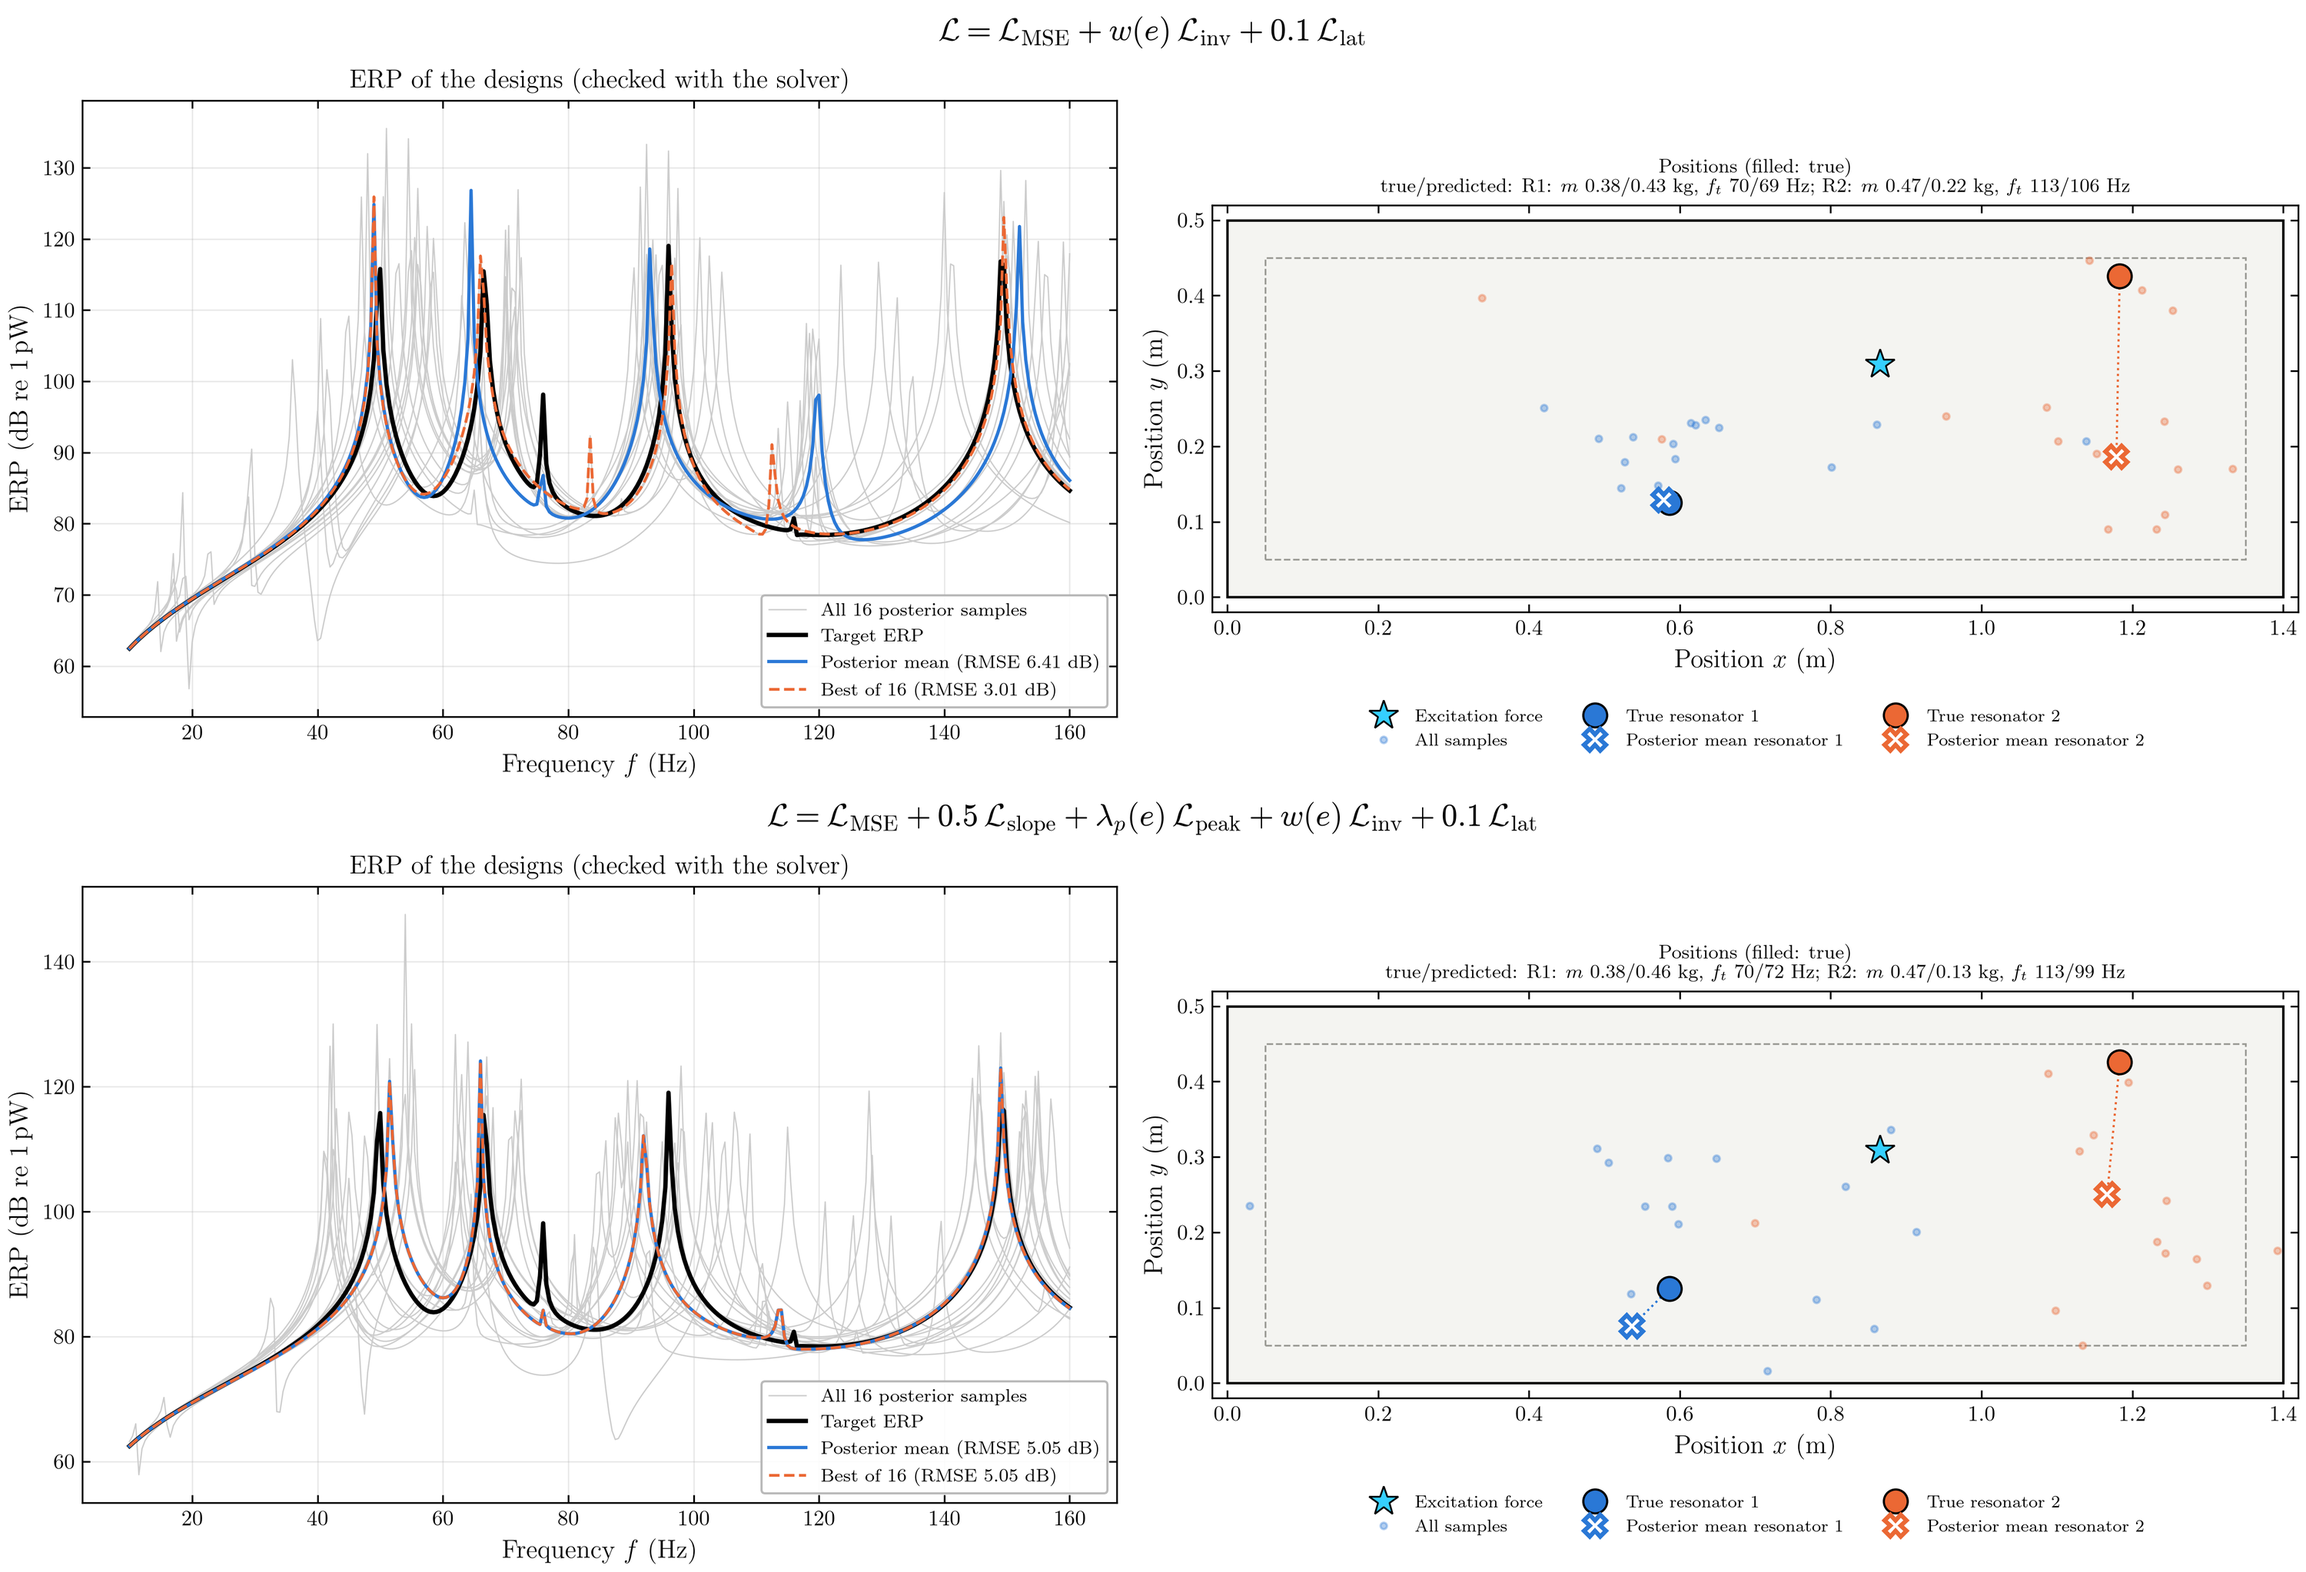
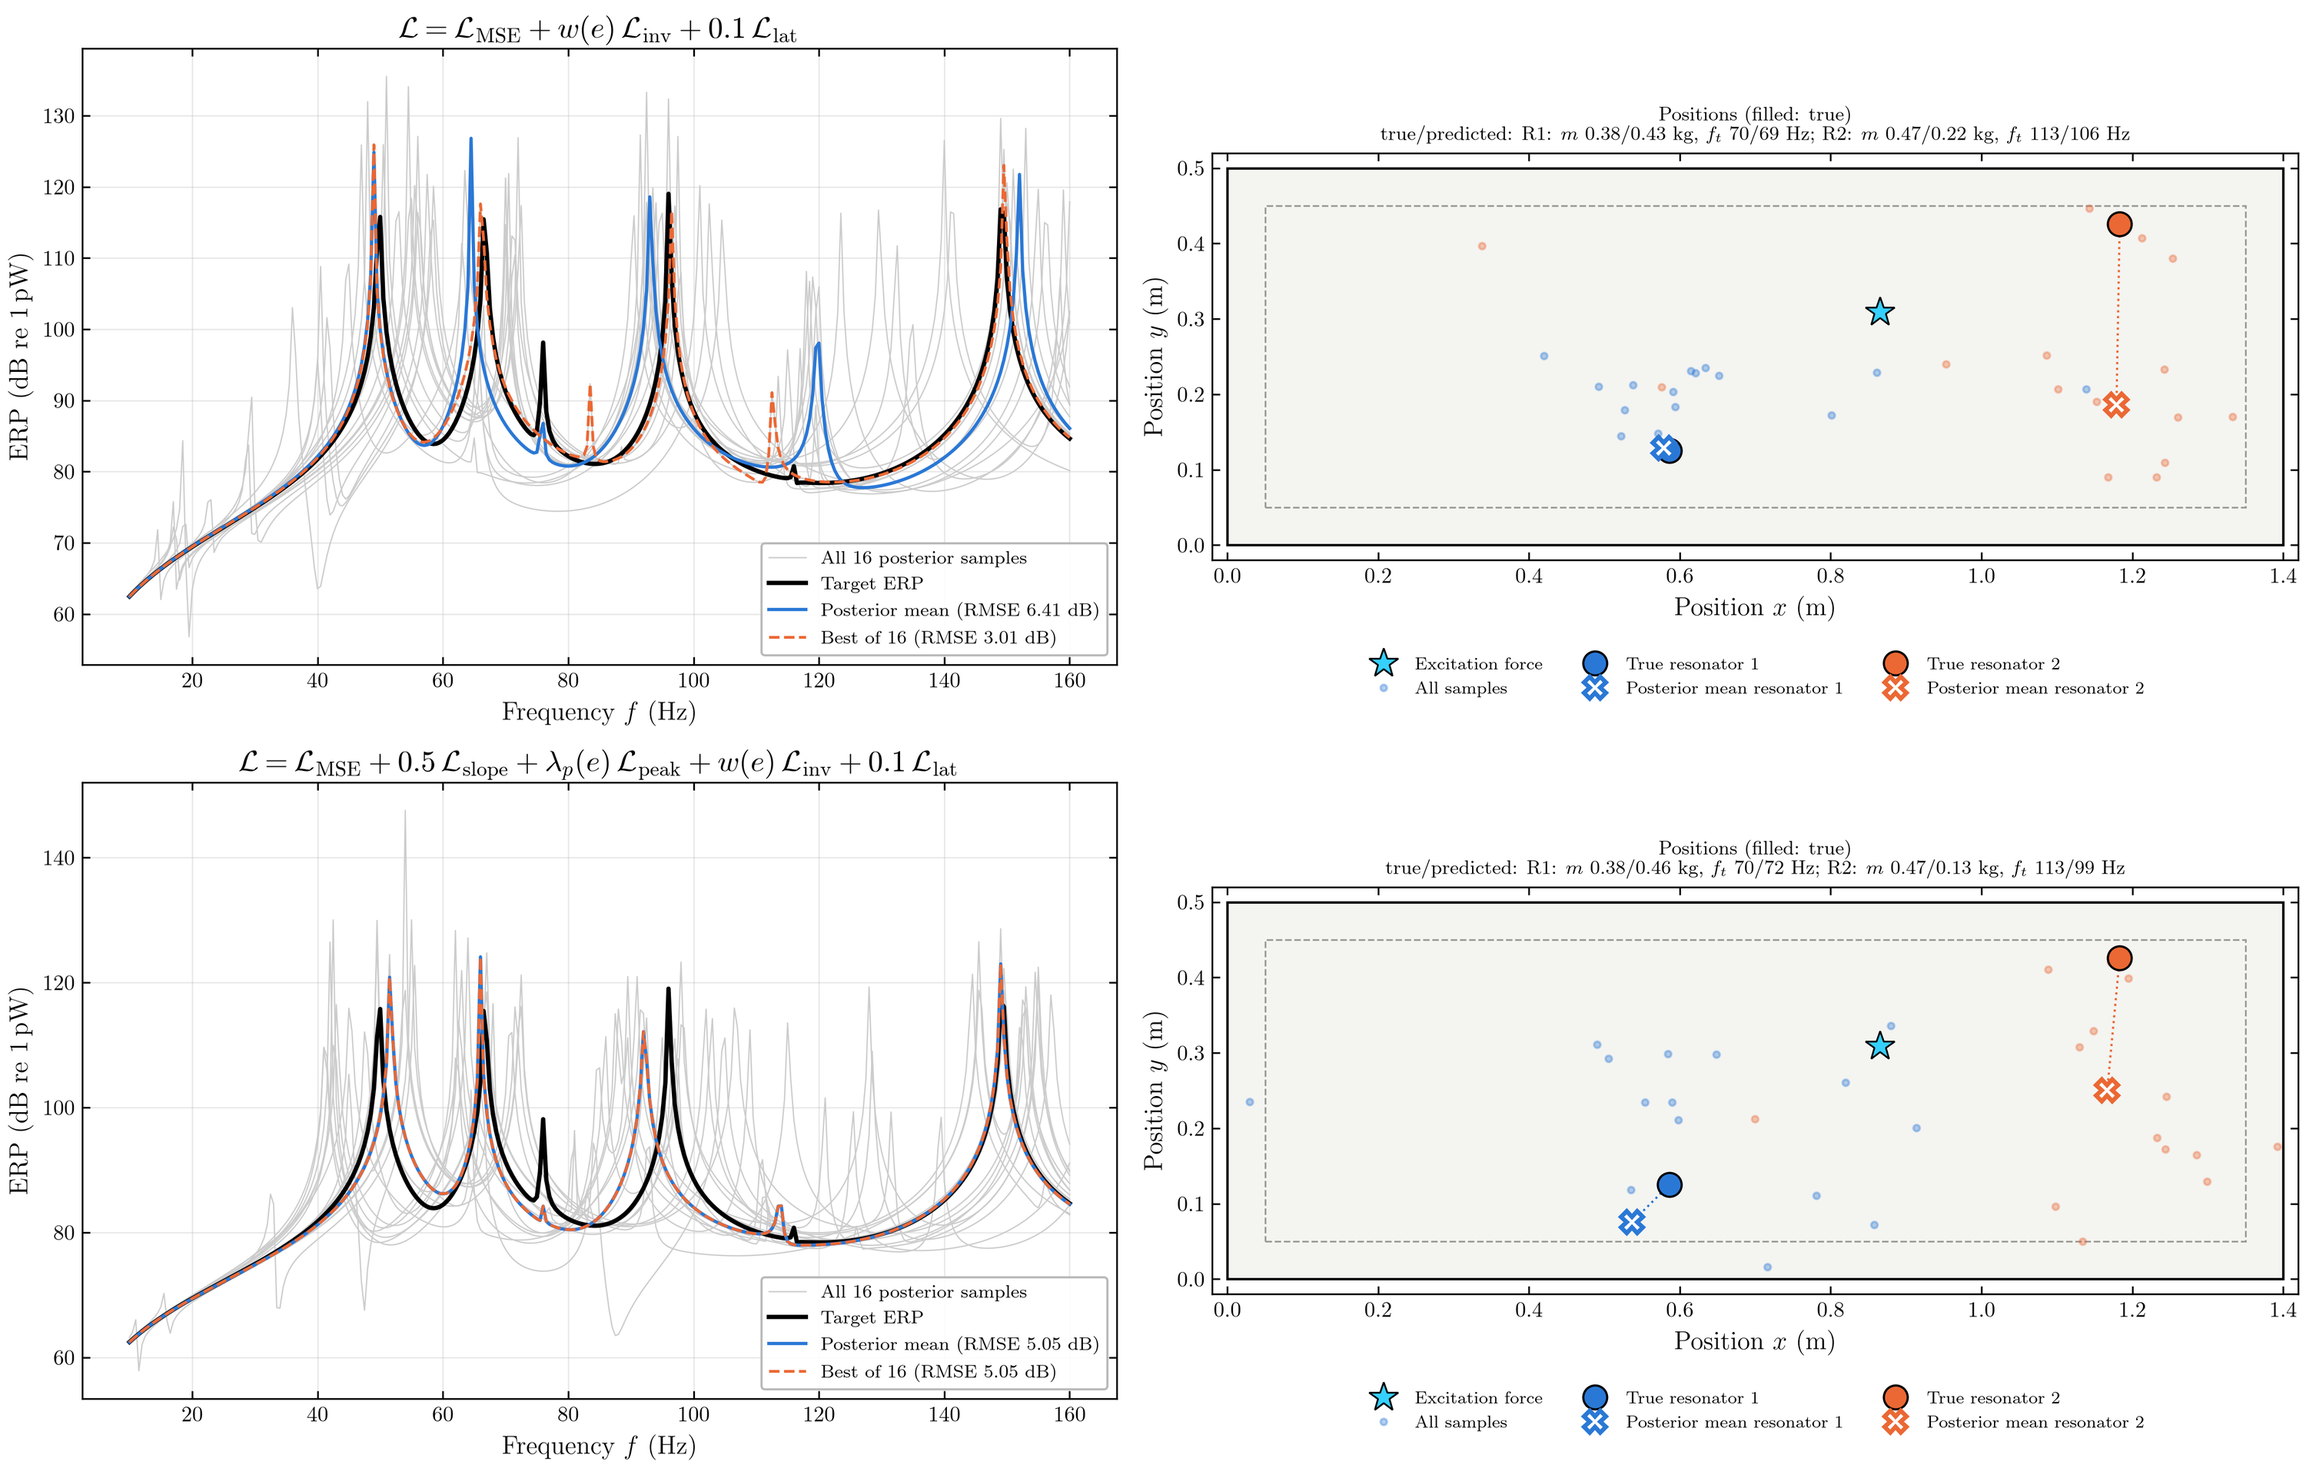
iDON inverse example: loss equation as the title of the left plot, figure title removed
Claude-Session: https://claude.ai/code/session_01Xi6afoA5dMCYhCAXGZ3yMw

diff --git a/presentation_figures/idon_inverse_example_titles.py b/presentation_figures/idon_inverse_example_titles.py
@@ -1,6 +1,7 @@
-"""Inverse-design example of the Invertible DeepONet (Q64 and Q64-ERP): only the title strip of the existing evaluation images
-(erp_invertible_deeponet/plots/models/200k_2res_18modes/<variant>/inverse_example_3.png) is replaced, by the loss equation of the model,
-instead of "... test configuration 3". Curves, positions and legends are the untouched original pixels; the two panels are stacked.
+"""Inverse-design example of the Invertible DeepONet (Q64 and Q64-ERP): in the existing evaluation images
+(erp_invertible_deeponet/plots/models/200k_2res_18modes/<variant>/inverse_example_3.png) the figure title ("... test configuration 3") is
+cropped away and the title of the left plot is replaced by the loss equation of the model. Curves, positions and legends are the untouched
+original pixels; the two panels are stacked.
 """
 import sys
 from pathlib import Path
@@ -26,27 +27,38 @@ TITLES = {
 }
 DPI = 295  # of the evaluation images (15 x 5.2 in -> 4427 x 1509 px)
 OUT_WIDTH = 3000
+TITLE_SIZE = 14
 
 
 def retitled(variant: str) -> Image.Image:
     img = Image.open(BASE / variant / f"inverse_example_{EXAMPLE}.png").convert("RGB")
     ink = np.asarray(img).min(axis=2) < 245
+    W = img.width
     rows = np.where(ink.any(axis=1))[0]
     r = int(rows[0])
-    while ink[r + 1].any():  # end of the old title text line
+    while ink[r + 1].any():  # end of the old figure title ("Invertible DeepONet ...: inverse design of test configuration 3")
         r += 1
     nxt = r + 1
-    while not ink[nxt].any():  # start of the next element (the axes titles)
+    while not ink[nxt].any():  # start of the next element: the axes titles
         nxt += 1
-    band = nxt - 4  # rows 0..band hold only the old title
-    fig = plt.figure(figsize=(img.width / DPI, band / DPI), dpi=DPI)
-    fig.text(0.5, 0.5, TITLES[variant], fontsize=15, ha="center", va="center")
-    fig.canvas.draw()
-    strip = Image.fromarray(np.asarray(fig.canvas.buffer_rgba())[..., :3]).resize((img.width, band))
-    plt.close(fig)
+    frame = nxt
+    while ink[frame, : W // 2].mean() < 0.4:  # top edge of the left axes
+        frame += 1
+    old = ink[nxt : frame - 3, : W // 2]  # old left title "ERP of the designs (checked with the solver)"
+    cols = np.where(old.any(axis=0))[0]
+    cmin, cmax = int(cols.min()), int(cols.max())
+    h = frame - 3 - nxt
     out = img.copy()
-    out.paste(strip, (0, 0))
-    return out
+    white = Image.new("RGB", (cmax - cmin + 24, h), "white")
+    out.paste(white, (cmin - 12, nxt))
+    fig = plt.figure(figsize=(white.width * 1.6 / DPI, h / DPI), dpi=DPI)
+    fig.text(0.5, 0.5, TITLES[variant], fontsize=TITLE_SIZE, ha="center", va="center")
+    fig.canvas.draw()
+    strip = Image.fromarray(np.asarray(fig.canvas.buffer_rgba())[..., :3])
+    plt.close(fig)
+    cx = (cmin + cmax) // 2
+    out.paste(strip, (cx - strip.width // 2, nxt))
+    return out.crop((0, nxt - 30, W, img.height))  # the old figure title is cropped away
 
 
 panels = [retitled(v) for v in TITLES]

diff --git a/presentation_figures/README.md b/presentation_figures/README.md
@@ -85,4 +85,4 @@ Script: `peak_schedule_comparison.py`. The checkpoints were identified by reprod
 
 | `idon_base_loss_function` | loss of the base Invertible DeepONet (plain MSE variants Q8, Q64): MSE + warm-up-weighted inverse Huber term + latent Huber term; script `idon_base_loss_equation_figure.py` |
 
-| `idon_inverse_q64_vs_q64erp` | inverse design example (test configuration 3) of the Invertible DeepONet Q64 and Q64-ERP; the existing evaluation images with only the title strip replaced by each model's loss equation (script `idon_inverse_example_titles.py`) |
+| `idon_inverse_q64_vs_q64erp` | inverse design example (test configuration 3) of the Invertible DeepONet Q64 and Q64-ERP; the existing evaluation images with the figure title cropped away and the title of the left plot replaced by each model's loss equation (script `idon_inverse_example_titles.py`) |
